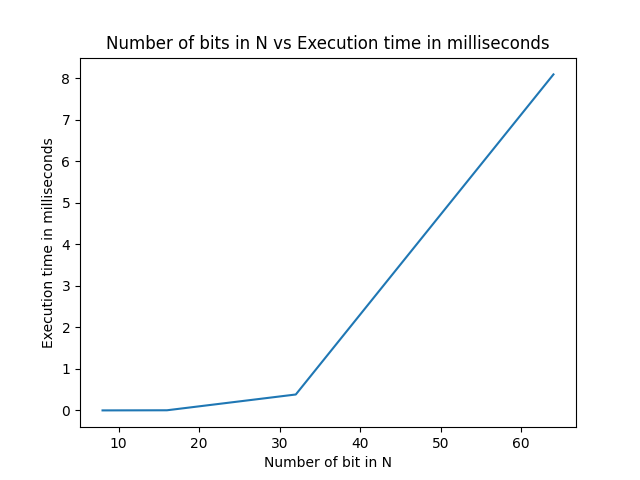
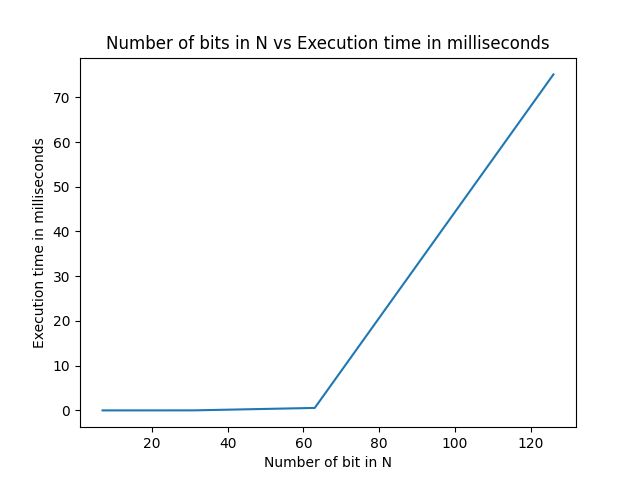
modify logs

diff --git a/attacking_algorithm.py b/attacking_algorithm.py
@@ -1,6 +1,7 @@
 from rsa import RSA
 import sympy
 import time
+import math
 
 import matplotlib.pyplot as plt
 
@@ -31,20 +32,20 @@ def attack(start_prime, end_prime):
 
     print("private calculated key : D =", D)
     print("Actual private key =", rsa.get_private_key())
-    return D, end_time - start_time
+    return D, N, end_time - start_time
 
 
 if __name__ == "__main__":
     execution_time_list = []
     number_of_bits_list = []
-    number_of_bits = 8
+    number_of_bits = 4
     while number_of_bits <= 64:
-        number_of_bits_list.append(number_of_bits)
         start_prime = int('1' + '0'*(number_of_bits-1), 2)
         end_prime = int('1' + '1'*(number_of_bits-1), 2)
-        print("Number of bits =", number_of_bits)
-        D, execution_time = attack(start_prime, end_prime)
+        D, N, execution_time = attack(start_prime, end_prime)
+        number_of_bits_list.append(int(math.log2(N)))
         execution_time_list.append(execution_time)
+        print("Number of bits =", int(math.log2(N)))
         print("Time to attack in milliseconds =", (execution_time)*1000, "ms")
         print()
         number_of_bits *= 2
